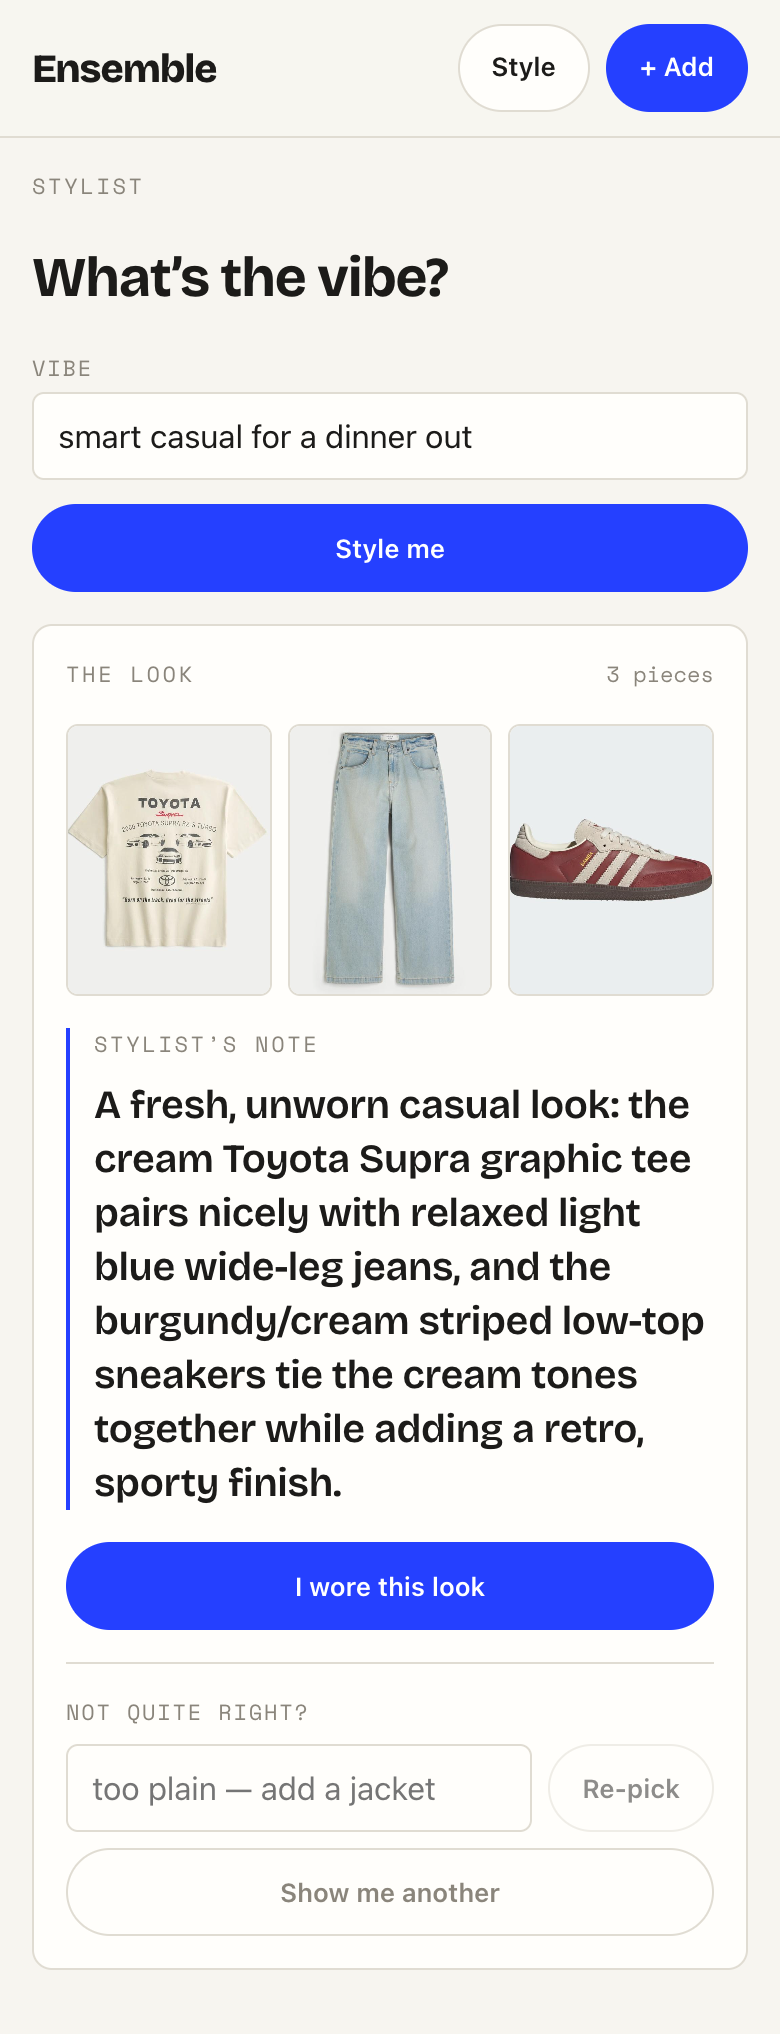
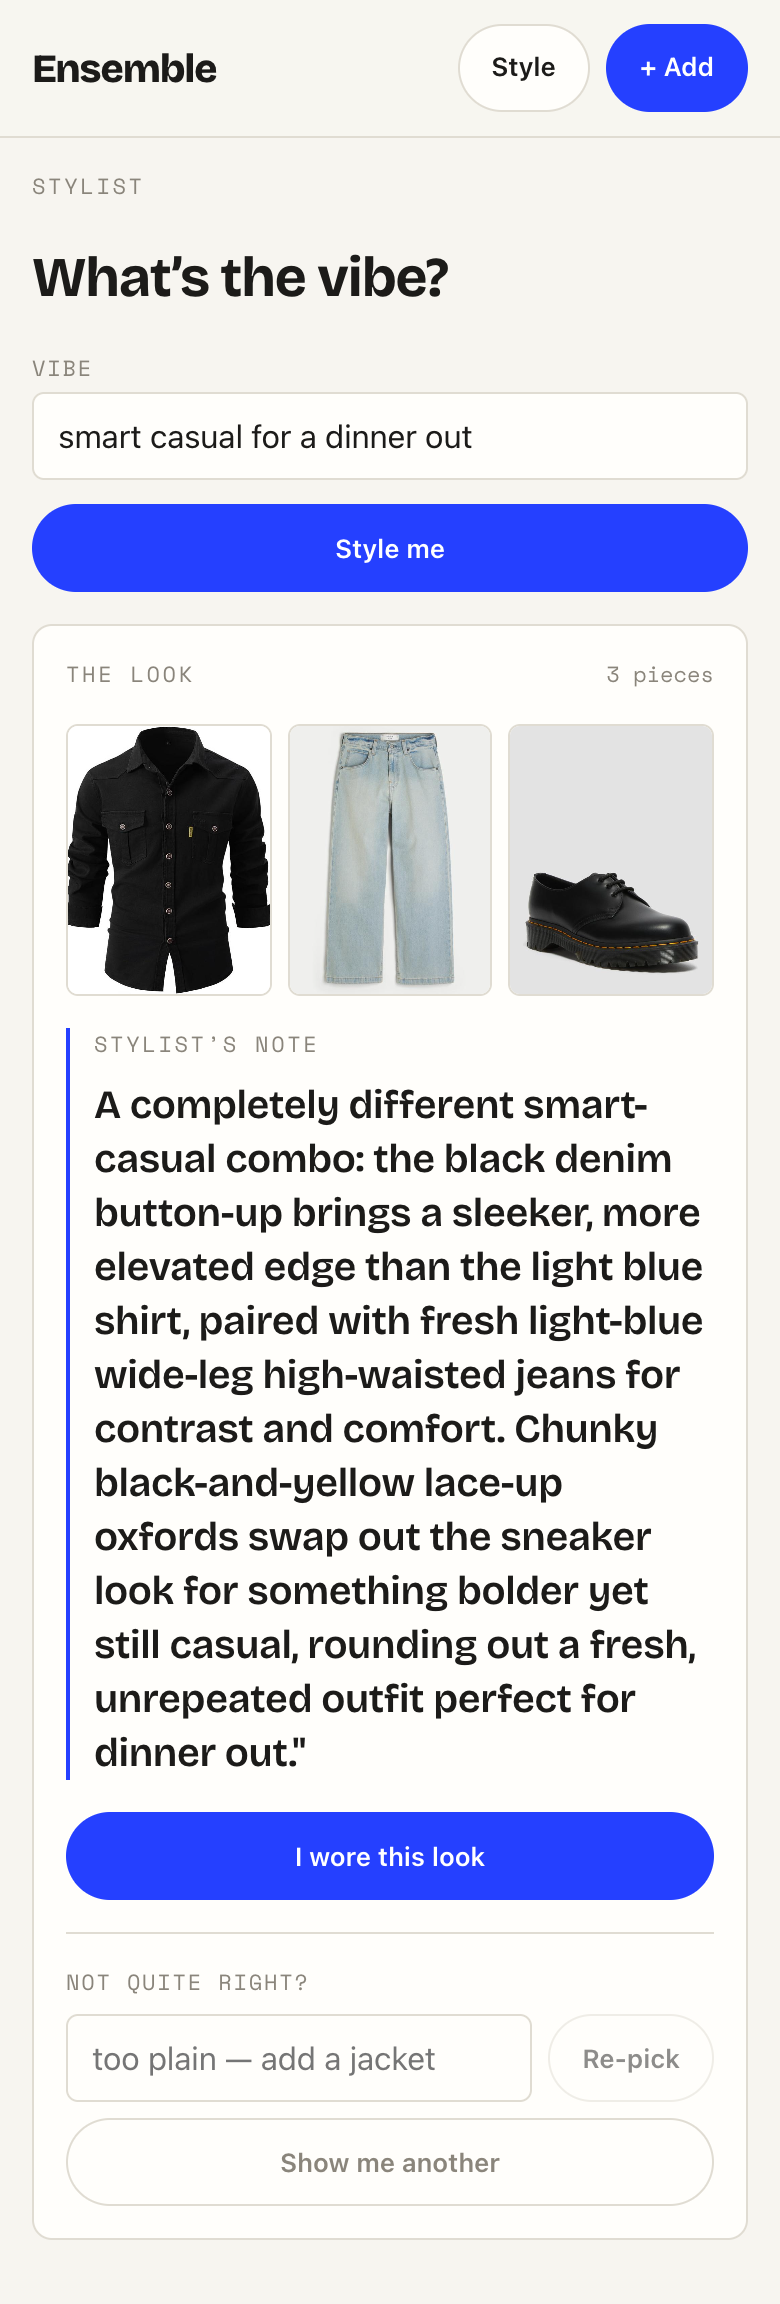
docs: SDD validation for issue #7 (re-pick loop + wear-history)
- PASS: 16/16 FRs verified, 100% branch on markWorn + grounding guardrail, 93 frontend tests, live end-to-end (markWorn 0->1->2, two-curl re-pick = 3 different grounded ids)

- Resolved MEDIUM finding: T4.0 screenshots were captured against a stale #6 worktree on :8080; re-verified and re-captured against the #7 build on :8081

Related to Spec 07 validation

diff --git a/docs/specs/07-spec-repick-wear-history/07-validation-repick-wear-history.md b/docs/specs/07-spec-repick-wear-history/07-validation-repick-wear-history.md
@@ -1,0 +1,142 @@
+# 07-validation-repick-wear-history.md
+
+Validation of the issue-#7 implementation (re-pick loop + wear-history) against
+`07-spec-repick-wear-history.md` and the task-level Proof Artifacts.
+
+## 1) Executive Summary
+
+- **Overall:** **PASS** (no gates tripped; one MEDIUM evidence-quality issue found and
+  **resolved during validation** — see §3).
+- **Implementation Ready:** **Yes** — all three Demoable Units are covered by passing
+  automated tests, the two critical rules hold **100% branch** coverage, and the loop was
+  independently verified end-to-end (live `markWorn` + two-curl re-pick + mobile screenshots)
+  against the correct #7 build.
+- **Key metrics:**
+  - Functional Requirements verified: **16 / 16 (100%)**, 0 Unknown.
+  - Proof Artifacts working: **all** automated + live artifacts reproduced this session.
+  - Files changed vs expected: **35 changed, all mapped** to the task "Relevant Files"
+    (23 core src/test, 12 spec/proof/docs) — no out-of-scope core changes.
+  - Backend coverage: `markWorn` **BRANCH 0-missed/2**; grounding guardrail
+    (`style`/`pickWithOneRetry`/`renderWardrobe`/`invalidIds`) **BRANCH 0-missed** → 100%.
+  - Frontend: **93 tests / 11 files pass**, `eslint` clean.
+
+## 2) Coverage Matrix
+
+### Functional Requirements
+
+| Requirement | Status | Evidence |
+| --- | --- | --- |
+| **U1** `markWorn` reads item, sets `wornCount=prior+1` (null→0), `lastWorn=now`, persists, returns `ItemResponse` | Verified | `WardrobeServiceTest` (4 cases) pass; live `:8081` curl `0→1→2`; commit `f317283` |
+| **U1** wear values computed in app code, never the model | Verified | `WardrobeService.markWorn` is a pure read-modify-write (no model call); `src/main/java/com/ensemble/wardrobe/WardrobeService.java` |
+| **U1** unknown id → `ItemNotFoundException` → 404 | Verified | `markWorn_unknownId_throwsNotFound`; live curl unknown id → `{"error":"not_found"}` HTTP 404 |
+| **U1** `POST /api/items/{id}/worn` → 200 + updated DTO | Verified | `WardrobeControllerTest.postWorn_valid_returns200WithUpdatedItem` / `postWorn_unknownId_returns404`; live curl HTTP 200 |
+| **U1** other fields (tags/photo/`createdAt`) unchanged | Verified | `WardrobeRepositoryIT` round-trip asserts tags/`createdAt` untouched |
+| **U2** `POST /api/style` accepts optional `history`; no-history == single-turn | Verified | `StyleControllerTest.postStyle_withHistory_*`; `style_emptyHistory_matchesSingleTurn`; commit `8e877f0` |
+| **U2** seed conversation with history + prompt, run **unchanged** guardrail (validate/retry-once/subset/error-on-zero) | Verified | `style_repick_staysGroundedWithHallucinatedIdRetriedOnce`, `style_repick_rendersValidSubsetAfterRetry`; JaCoCo 100% branch on guardrail |
+| **U2** instruct model to produce a **different** look from the previous when history present | Verified | `AnthropicStylistModelClientTest` (different-look instruction on prior-assistant turn); live two-curl → 3 different ids; look-2 note "a fresh, unrepeated outfit" |
+| **U2** server **stateless**; client resends full thread | Verified | No server-side turn storage; `StylistService.style(vibe, history)` seeds per call; `style_repeatedPushback_eachPickGrounded` |
+| **U2** text turns only (no image bytes) on every re-pick | Verified | `style_repick_sendsNoImageBytes`; `AnthropicStylistModelClientTest` text-only MessageParams |
+| **U2** repeated pushback each grounded; empty-wardrobe friendly 200 on re-pick | Verified | `style_repeatedPushback_eachPickGrounded`, `style_repick_emptyWardrobe_returnsFriendly` |
+| **U3** item detail displays `wornCount` (never-worn) + relative `lastWorn` (not-yet-worn), display-only | Verified | `ItemDetail.test.tsx` (3 cases) + `relativeTime.test.ts` (6); commit `2d00bb0` |
+| **U3** "I wore this look" marks every piece worn, locks to "Logged ✓" one-shot; failed write → soft retry, keeps look | Verified | `Stylist.test.tsx` "logs a worn look…" / "keeps the look…"; `api/items.test.ts` `markWorn` |
+| **U3** after a look, pushback field + "Show me another"; each POSTs accumulated `history` and renders the new look | Verified | `Stylist.test.tsx` re-pick suite (reveal/pushback/regenerate/thread-accumulates); screenshots look1→look2; commit `ab1373a` |
+| **U3** preserve loading / error-with-retry / empty states across re-picks; Care-Label design | Verified | `Stylist.test.tsx` disabled-while-loading + error-retry + empty-on-repick; `index.css` `.repick`/`.btn-ghost` |
+| **U3** client builds/forwards `history`; wardrobe client exposes `markWorn(id)` | Verified | `api/style.test.ts` (history in body + backward compat); `api/items.ts` `markWorn` |
+
+### Repository Standards
+
+| Standard Area | Status | Evidence & Notes |
+| --- | --- | --- |
+| Strict TDD (backend domain) | Verified | Task file shows RED→GREEN→REFACTOR per sub-task; per-unit commits; 100% branch on the two critical rules (JaCoCo) |
+| Coverage split (frontend meaningful-logic only) | Verified | Frontend tests cover client contracts + route logic, not view plumbing (`docs/TESTING.md`) |
+| Layered arch + DTO boundary | Verified | Controllers return `ItemResponse`/`StyleResponse`; no `Item`/Claude client/storage leak |
+| Mock Claude in tests; DynamoDB Local for round-trip | Verified | `AnthropicStylistModelClientTest`/`StylistServiceTest` mock the seam; `WardrobeRepositoryIT` uses DynamoDB Local |
+| Conventional commits; pre-commit gates | Verified | 4 `feat:` commits w/ task refs; pre-commit (tests+lint+secret scan) passed on `ab1373a` |
+
+### Proof Artifacts
+
+| Unit/Task | Proof Artifact | Status | Verification Result |
+| --- | --- | --- | --- |
+| T1.0 | `WardrobeServiceTest`/`WardrobeControllerTest`/`WardrobeRepositoryIT` | Verified | `./gradlew test` BUILD SUCCESSFUL |
+| T1.0 | JaCoCo 100% branch on `markWorn` | Verified | `markWorn` BRANCH missed 0 / covered 2 |
+| T1.0 | CLI `POST /worn` | Verified | live `:8081`: `wornCount 0→1→2`, unknown id sanitized 404 |
+| T2.0 | `StylistServiceTest`/`StyleControllerTest`/`AnthropicStylistModelClientTest` | Verified | pass in full suite; guardrail 100% branch |
+| T2.0 | CLI two-curl re-pick returns different ids | Verified | live `:8081`: pick1 vs pick2 = **3 different, all-owned** ids |
+| T3.0 | `ItemDetail`/`relativeTime`/`items`/`Stylist` tests | Verified | in 93/11 frontend pass |
+| T3.0 | Item-detail + "Logged ✓" screenshots | Verified | `assets/item-detail-wear.png`, `assets/stylist-logged-card.png` present, inline |
+| T4.0 | `api/style.test.ts` + `Stylist.test.tsx` re-pick suite | Verified | in 93/11 frontend pass |
+| T4.0 | Two-different-looks screenshots | Verified | `assets/stylist-repick-look1.png` / `-look2.png` re-captured against #7 (see §3) |
+
+## 3) Validation Issues
+
+| Severity | Issue | Impact | Recommendation / Resolution |
+| --- | --- | --- | --- |
+| MEDIUM (RESOLVED) | The T4.0 two-look screenshots were originally captured with the Vite dev proxy pointed at its default `:8080`, which was serving a **stale issue-#6 worktree** backend (`.worktrees/06-stylist/`) that lacks `/worn` and ignores `history`. The screenshots showed the correct **frontend** loop, but the "different look" was produced by #6's stateless re-style, not the #7 nudge — so the end-to-end backend claim was not actually exercised. | Evidence quality: proof overstated the end-to-end path. | **Resolved during validation:** stood up the #7 build on `:8081`, verified `markWorn` (`0→1→2`, sanitized 404) and the two-curl re-pick (**3 different, all-owned ids**), re-pointed the proxy at `:8081`, and re-captured both screenshots against #7. `07-task-04-proofs.md` result summaries updated to match; proxy config reverted. |
+| LOW (env note) | The long-running dev backend on `:8080` is the **#6 worktree build**, not the #7 branch. | Manual testing against `:8080` would silently exercise old behavior. | Point local manual testing at a fresh `./gradlew bootRun` of the #7 branch (or restart the `:8080` server from this branch) before demoing. Not a code defect. |
+| LOW (transient) | The live `:8081` stylist intermittently returned `503 stylist_unavailable` (upstream Claude overload) on first call. | None to correctness — the app degrades to the graceful error state (as specified) and succeeds on retry. | No action; the error-with-retry state is a tested requirement (U3). |
+
+No CRITICAL/HIGH issues. No `Unknown` coverage entries. No secrets in any spec-07 artifact (scanned `sk-ant-…` / `AKIA…` → clean).
+
+## 4) Evidence Appendix
+
+**Commits analyzed (branch `feat/07-repick-wear-history`):**
+
+```
+ab1373a feat: pushback + 'Show me another' re-pick loop (frontend)     [T4.0]
+2d00bb0 feat: wear-history display + 'I wore this look' (frontend)      [T3.0]
+8e877f0 feat: stateless multi-turn re-pick / pushback (backend)        [T2.0]
+f317283 feat: deterministic 'I wore this' wear-history write           [T1.0]
+990837a docs: SDD spec, tasks, audit for issue #7                      [planning]
+```
+
+**Backend tests + coverage (`./gradlew test jacocoTestReport -PskipFrontend`):**
+
+```
+BUILD SUCCESSFUL
+WardrobeService.markWorn        BRANCH=(missed 0, covered 2)  LINE=(0,5)
+StylistService.style            BRANCH=(0, 6)   LINE=(0,16)
+StylistService.pickWithOneRetry BRANCH=(0, 2)   LINE=(0,10)
+StylistService.renderWardrobe   BRANCH=(0, 2)   LINE=(0,15)
+StylistService.invalidIds λ     BRANCH=(0, 2)
+```
+
+**Frontend (`npm test -- --run`, `npm run lint`):**
+
+```
+Test Files  11 passed (11)
+     Tests  93 passed (93)
+eslint: clean (exit 0)
+```
+
+**Live end-to-end against #7 backend (`:8081`, DynamoDB Local, live Sonnet 5):**
+
+```
+# Unit 1 — markWorn
+POST /api/items/<id>/worn  → wornCount 0 → 1 (lastWorn set) → 2      HTTP 200
+POST /api/items/does-not-exist/worn → {"error":"not_found"}          HTTP 404
+
+# Unit 2 — stateless re-pick
+POST /api/style {prompt}                       → ids A = [ffbcdb71, 9d12e3e8, 72cd4a7b]
+POST /api/style {prompt, history:[…prev…]}     → ids B = [14fbffbd, 392d1ed5, 9bfc4421]
+identical set? False   |  B ⊆ owned (grounded)? True
+```
+
+**Screenshots (390px, re-captured against #7):**
+`assets/stylist-repick-look1.png` (light-blue button-up + wide-leg jeans + retro sneakers)
+and `assets/stylist-repick-look2.png` (black denim button-up + light jeans + oxfords; note:
+"A completely different smart-casual combo… a fresh, unrepeated outfit").
+
+## How to Continue the SDD Workflow
+
+Likely next phase action: this feature's SDD workflow is complete; the next SDD action would be starting Phase 1 for a new feature.
+
+To continue the workflow in this chat, reply with:
+
+`Start SDD for a new feature.`
+
+You can also continue in a new chat if you want to keep context lean; the SDD skill will reassess repository state from the persisted spec/task/audit/proof/validation artifacts.
+
+Before merging, do a final code review of the completed implementation and this validation report.
+
+**Validation Completed:** 2026-07-16
+**Validation Performed By:** Claude Opus 4.8 (1M context)

diff --git a/docs/specs/07-spec-repick-wear-history/07-proofs/07-task-04-proofs.md b/docs/specs/07-spec-repick-wear-history/07-proofs/07-task-04-proofs.md
@@ -28,9 +28,13 @@ flight and the prior look stays on screen. Frontend meaningful-logic tests only.
 - The full frontend suite passes — **93 tests / 11 files**; `npm run lint` clean.
 - New/updated specs: `api/style.test.ts` (history in the POST body + backward compat, 7),
   `Stylist.test.tsx` (call-shape update + 7 new re-pick cases, 12).
-- Live screenshots (390px mobile viewport, Vite dev server proxying `/api` → the running
-  backend, live Sonnet 5 stylist) show a rendered look with the pushback field +
+- Live screenshots (390px mobile viewport, Vite dev server proxying `/api` → the issue-#7
+  backend on `:8081`, live Sonnet 5 stylist) show a rendered look with the pushback field +
   "Show me another", and a **second, different look** after clicking regenerate.
+- The re-pick loop was also cross-checked directly against the #7 backend: two chained
+  `POST /api/style` calls (a vibe, then the same vibe with the prior pick + "too plain" in
+  `history`) returned **three completely different, all-owned item ids** — confirming the
+  stateless different-look nudge end-to-end, not just in the UI.
 
 ## Artifact: Frontend unit + component tests
 
@@ -79,14 +83,15 @@ cd frontend && npm run lint
 right?" pushback field (placeholder "too plain — add a jacket"), a **Re-pick** button, and a
 **Show me another** button — below the "I wore this look" action.
 
-**Why it matters:** confirms the loop UI renders in the real app against the live stylist,
-not just under RTL. The vibe "smart casual for a dinner out" produced a light-blue
-button-up + black wide-leg denim + black/yellow oxford shoes.
+**Why it matters:** confirms the loop UI renders in the real app against the live #7
+stylist, not just under RTL. The vibe "smart casual for a dinner out" produced a light-blue
+button-up + light-wash wide-leg jeans + burgundy/cream retro low-top sneakers.
 
 **Artifact path:** `docs/specs/07-spec-repick-wear-history/07-proofs/assets/stylist-repick-look1.png`
 
-**Result summary:** the outfit card shows the first look (3 pieces) with the stylist's note
-and the pushback field + "Show me another" regenerate control at ~390px mobile width.
+**Result summary:** the outfit card shows the first look (3 pieces, real stored photos) with
+the stylist's note and the pushback field + "Show me another" regenerate control at ~390px
+mobile width.
 
 ![Stylist first look with a pushback field and a "Show me another" button](assets/stylist-repick-look1.png)
 
@@ -96,14 +101,14 @@ and the pushback field + "Show me another" regenerate control at ~390px mobile w
 thread and renders a **different** grounded look — the core re-pick behavior.
 
 **Why it matters:** confirms the stateless resend + different-look nudge works end-to-end:
-the second pick shares no pieces with the first and the stylist's note explains the new
-pairing.
+the second pick shares no pieces with the first and the stylist's note explicitly calls out
+the swap ("A completely different smart-casual combo… a fresh, unrepeated outfit").
 
 **Artifact path:** `docs/specs/07-spec-repick-wear-history/07-proofs/assets/stylist-repick-look2.png`
 
-**Result summary:** the same vibe re-picked to a cream Toyota Supra graphic tee + light-blue
-wide-leg jeans + burgundy/cream low-top sneakers — a distinct look from look 1, with the
-re-pick controls still present for further iteration.
+**Result summary:** the same vibe re-picked to a black denim button-up + light-blue wide-leg
+jeans + black/yellow lace-up oxfords — a distinct look from look 1 (no shared pieces), with
+the re-pick controls still present for further iteration.
 
 ![Stylist second, different look after clicking "Show me another"](assets/stylist-repick-look2.png)
 